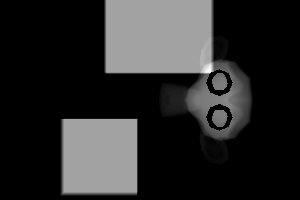
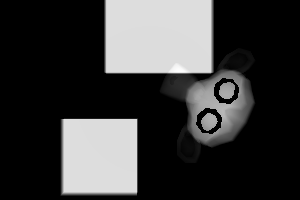
Add rendering density proof of concept

Changed region(s): [[0.33, 0.0, 0.87, 0.75], [0.18, 0.57, 0.48, 0.99]]

diff --git a/deepdrr/projector/projector.py b/deepdrr/projector/projector.py
@@ -145,7 +145,8 @@ def _get_kernel_projector_module(
         "-D",
         f"NUM_VOLUMES={num_volumes}",
         "-D",
-        f"NUM_MESHES={num_meshes}",
+        f"NUM_MESHES={0}",
+        # f"NUM_MESHES={num_meshes}",
         "-D",
         f"NUM_MATERIALS={num_materials}",
         "-D",
@@ -504,7 +505,7 @@ class Projector(object):
                     _vol.IJK_from_world @ proj.center_in_world
                 ).astype(np.float32)
 
-                self.prim_nodes[vol_id].matrix = np.array(_vol.IJK_from_world)
+                self.prim_nodes[vol_id].matrix = np.linalg.inv(np.array(_vol.IJK_from_world))
                 cuda.memcpy_htod(
                     int(self.mesh_sourceX_gpu) + int(NUMBYTES_INT32 * vol_id),
                     np.array([source_ijk[0]]),
@@ -532,73 +533,73 @@ class Projector(object):
 
             num_rays = proj.sensor_width * proj.sensor_height
 
-            if len(self.primitives) > 0:
-                mesh_perf_start = time.perf_counter()
+            # if len(self.primitives) > 0:
+            #     mesh_perf_start = time.perf_counter()
 
-                trace_dist = 1000 # TODO: make this a parameter
+            #     trace_dist = 1000 # TODO: make this a parameter
 
-                args = [
-                    np.int32(proj.sensor_width),  # out_width
-                    np.int32(proj.sensor_height),  # out_height
-                    self.mesh_sourceX_gpu,  # sx_ijk
-                    self.mesh_sourceY_gpu,  # sy_ijk
-                    self.mesh_sourceZ_gpu,  # sz_ijk
-                    self.world_from_index_gpu,  # world_from_index
-                    self.mesh_ijk_from_world_gpu,  # ijk_from_world
-                    self.ray_directions_gpu, # ray_directions  
-                    np.int32(num_rays),  # num_rays
-                    np.float32(trace_dist),  # trace_dist
-                ]
+            #     args = [
+            #         np.int32(proj.sensor_width),  # out_width
+            #         np.int32(proj.sensor_height),  # out_height
+            #         self.mesh_sourceX_gpu,  # sx_ijk
+            #         self.mesh_sourceY_gpu,  # sy_ijk
+            #         self.mesh_sourceZ_gpu,  # sz_ijk
+            #         self.world_from_index_gpu,  # world_from_index
+            #         self.mesh_ijk_from_world_gpu,  # ijk_from_world
+            #         self.ray_directions_gpu, # ray_directions  
+            #         np.int32(num_rays),  # num_rays
+            #         np.float32(trace_dist),  # trace_dist
+            #     ]
 
-                self.generate_rays(
-                    *args,
-                    block=(512, 1, 1),
-                    grid=(16, 1),
-                )
+            #     self.generate_rays(
+            #         *args,
+            #         block=(512, 1, 1),
+            #         grid=(16, 1),
+            #     )
 
-                context.synchronize()
+            #     context.synchronize()
 
 
-                mesh_perf_end = time.perf_counter()
-                print(f"rays: {mesh_perf_end - mesh_perf_start}")
-                mesh_perf_start = mesh_perf_end
+            #     mesh_perf_end = time.perf_counter()
+            #     print(f"rays: {mesh_perf_end - mesh_perf_start}")
+            #     mesh_perf_start = mesh_perf_end
 
-                for mesh_i, _mesh in enumerate(self.primitives):
+            #     for mesh_i, _mesh in enumerate(self.primitives):
 
-                    # TODO: do this on GPU (won't speedup, low priority)
-                    origin_pt = [sx_ijk[mesh_i], sy_ijk[mesh_i], sz_ijk[mesh_i]]
-                    # origin_pt_np = np.array(origin_pt, dtype=np.float32)
-                    origins = np.array([origin_pt])
+            #         # TODO: do this on GPU (won't speedup, low priority)
+            #         origin_pt = [sx_ijk[mesh_i], sy_ijk[mesh_i], sz_ijk[mesh_i]]
+            #         # origin_pt_np = np.array(origin_pt, dtype=np.float32)
+            #         origins = np.array([origin_pt])
 
-                    context.synchronize()
+            #         context.synchronize()
 
-                    mesh_perf_end = time.perf_counter()
-                    print(f"ray compute: {mesh_perf_end - mesh_perf_start}")
-                    mesh_perf_start = mesh_perf_end
+            #         mesh_perf_end = time.perf_counter()
+            #         print(f"ray compute: {mesh_perf_end - mesh_perf_start}")
+            #         mesh_perf_start = mesh_perf_end
 
-                    # vertices = _mesh.compute_vertices() # TODO on GPU
-                    # triangles = _mesh.triangles()
+            #         # vertices = _mesh.compute_vertices() # TODO on GPU
+            #         # triangles = _mesh.triangles()
 
-                    # mesh_perf_end = time.perf_counter()
-                    # print(f"triangle compute: {mesh_perf_end - mesh_perf_start}")
-                    # mesh_perf_start = mesh_perf_end
+            #         # mesh_perf_end = time.perf_counter()
+            #         # print(f"triangle compute: {mesh_perf_end - mesh_perf_start}")
+            #         # mesh_perf_start = mesh_perf_end
 
-                    self.pycuda_rsi.test(
-                        # vertices.copy(), 
-                        # triangles.copy(), 
-                        self.prim_surfs[mesh_i],
-                        origins.copy(), 
-                        np.uint64(int(self.ray_directions_gpu) + mesh_i * num_rays * 3 * NUMBYTES_FLOAT32), 
-                        trace_dist, 
-                        np.uint64(int(self.mesh_hit_alphas_gpu) + mesh_i * num_rays * self.max_mesh_depth * NUMBYTES_FLOAT32), 
-                        np.uint64(int(self.mesh_hit_facing_gpu) + mesh_i * num_rays * self.max_mesh_depth * NUMBYTES_INT8),
-                        None)
+            #         self.pycuda_rsi.test(
+            #             # vertices.copy(), 
+            #             # triangles.copy(), 
+            #             self.prim_surfs[mesh_i],
+            #             origins.copy(), 
+            #             np.uint64(int(self.ray_directions_gpu) + mesh_i * num_rays * 3 * NUMBYTES_FLOAT32), 
+            #             trace_dist, 
+            #             np.uint64(int(self.mesh_hit_alphas_gpu) + mesh_i * num_rays * self.max_mesh_depth * NUMBYTES_FLOAT32), 
+            #             np.uint64(int(self.mesh_hit_facing_gpu) + mesh_i * num_rays * self.max_mesh_depth * NUMBYTES_INT8),
+            #             None)
 
-                    context.synchronize()
+            #         context.synchronize()
                     
-                    mesh_perf_end = time.perf_counter()
-                    print(f"tracing: {mesh_perf_end - mesh_perf_start}")
-                    mesh_perf_start = mesh_perf_end
+            #         mesh_perf_end = time.perf_counter()
+            #         print(f"tracing: {mesh_perf_end - mesh_perf_start}")
+            #         mesh_perf_start = mesh_perf_end
 
 
             self.cam.fx = proj.intrinsic.fx
@@ -607,7 +608,17 @@ class Projector(object):
             self.cam.cy = proj.intrinsic.cy
             self.cam.znear = self.device.source_to_detector_distance/1000
             self.cam.zfar = self.device.source_to_detector_distance
-            self.cam_node.matrix = np.array(proj.extrinsic.inv)
+
+
+
+            deepdrr_to_opengl_cam = np.array([
+                [1, 0, 0, 0],
+                [0, -1, 0, 0],
+                [0, 0, -1, 0],
+                [0, 0, 0, 1]
+            ])
+
+            self.cam_node.matrix = np.array(proj.extrinsic.inv) @ deepdrr_to_opengl_cam
 
             def render():
                 color, depth = self.gl_renderer.render(self.scene, drr_mode=DRRMode.ERROR)
@@ -644,26 +655,11 @@ class Projector(object):
                 print(f"{np.amin(remapped)=} {np.amax(remapped)=}")
                 cv2.imwrite('fdafsdsafd.png', remapped)
                 # cv2.imwrite('duck_depth.png', depth)
+                return color*7
 
+            color = stuff()
 
-            fix = np.array([
-                [1, 0, 0, 0],
-                [0, -1, 0, 0],
-                [0, 0, -1, 0],
-                [0, 0, 0, 1]
-            ])
-
-            # self.cam_node.matrix = fix @ self.cam_node.matrix# @ np.linalg.inv(fix)
-
-            # for prim in self.prim_nodes:
-            #     prim.matrix = fix @ prim.matrix# @ np.linalg.inv(fix)
-
-            self.cam_node.matrix =  self.cam_node.matrix @ fix# @ np.linalg.inv(fix)
-
-            for prim in self.prim_nodes:
-                prim.matrix = np.linalg.inv(prim.matrix)# @ np.linalg.inv(fix)
-
-            stuff()
+            cuda.memcpy_htod(self.additive_densities, color.astype(np.float32))
 
             args = [
                 np.int32(proj.sensor_width),  # out_width
@@ -701,6 +697,9 @@ class Projector(object):
                 self.solid_angle_gpu,  # solid_angle
                 np.uint64(self.mesh_hit_alphas_gpu),
                 np.uint64(self.mesh_hit_facing_gpu),
+                np.uint64(self.additive_densities),
+                np.uint64(self.mesh_unique_materials_gpu),
+                np.int32(len(self.mesh_unique_materials)),
                 np.int32(self.max_mesh_depth),
                 np.uint64(self.mesh_materials_gpu),
                 np.uint64(self.mesh_densities_gpu),
@@ -1171,6 +1170,10 @@ class Projector(object):
             return cuda.mem_alloc(size)
 
         self.mesh_materials_gpu = safe_mem_alloc(len(self.primitives) * NUMBYTES_INT32)
+        self.mesh_unique_materials = list(set([mesh.material for mesh in self.primitives]))
+        self.mesh_unique_materials_indices = [self.all_materials.index(mat) for mat in self.mesh_unique_materials]
+        self.mesh_unique_materials_gpu = safe_mem_alloc(len(self.mesh_unique_materials) * NUMBYTES_INT32)
+        cuda.memcpy_htod(self.mesh_unique_materials_gpu, np.array(self.mesh_unique_materials_indices).astype(np.int32))
         mesh_materials = []
         for mesh in self.primitives:
             mesh_materials.append(self.all_materials.index(mesh.material))
@@ -1221,6 +1224,8 @@ class Projector(object):
         self.cam_node = self.scene.add(self.cam)
 
         self.gl_renderer = OffscreenRenderer(viewport_width=width, viewport_height=height, point_size=1.0)
+
+        self.additive_densities = cuda.mem_alloc(len(self.mesh_unique_materials) * n_rays * NUMBYTES_FLOAT32)
 
         # allocate volumes' priority level on the GPU
         self.priorities_gpu = cuda.mem_alloc(len(self.volumes) * NUMBYTES_INT32)
@@ -1766,6 +1771,9 @@ class Projector(object):
                 vol_gpu.free()
                 for seg in self.segmentations_gpu[vol_id]:
                     seg.free()
+
+            self.additive_densities.free()
+            self.mesh_unique_materials_gpu.free()
 
             self.priorities_gpu.free()
 

diff --git a/tests/test_core.py b/tests/test_core.py
@@ -113,7 +113,7 @@ class TestSingleVolume:
         # mesh = deepdrr.Mesh("titanium", 7, stl, world_from_anatomical=geo.FrameTransform.from_rotation(geo.Rotation.from_euler("y", 90, degrees=True)))
         # mesh = deepdrr.Mesh("air", 0, stl, morph_targets=morph_targets, world_from_anatomical=geo.FrameTransform.from_rotation(geo.Rotation.from_euler("x", 90, degrees=True)))
         prim = deepdrr.Primitive("titanium", 7, stl)
-        mesh = deepdrr.Mesh([prim], world_from_anatomical=geo.FrameTransform.from_rotation(geo.Rotation.from_euler("x", 90, degrees=True)))
+        mesh = deepdrr.Mesh([prim], world_from_anatomical=geo.FrameTransform.from_rotation(geo.Rotation.from_euler("x", 90, degrees=True) * geo.Rotation.from_euler("y", 30, degrees=True)))
 
         prim2 = deepdrr.Primitive("titanium", 7, stl2)
         mesh2 = deepdrr.Mesh([prim2], world_from_anatomical=geo.FrameTransform.from_translation([30, 50, 200]))
